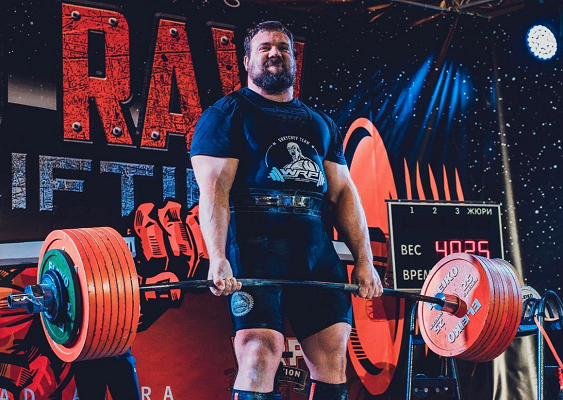
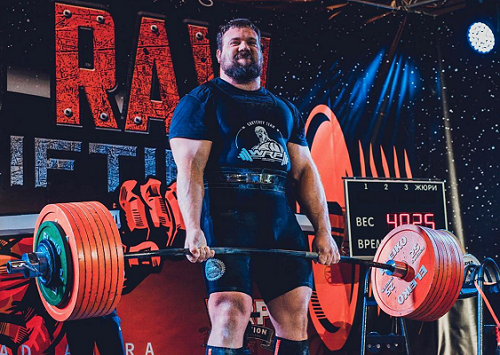
Modification HTML+CSS avec flexbox

diff --git a/index.html b/index.html
@@ -24,23 +24,24 @@
     <div class="centre_site">
         <div class="presentation">
             <h2>Qui suis-je?</h2>
-            <div class="presentation-texte">
-                <p>Bonjour, <br>Je m'appelle Antoine, j'ai 22 ans et je suis powerlifter depuis 8 ans. Bien que "spécialisé" dans le développé couché.</p>
-                <p>C'est une discipline encore trop peu connu, c'est pourquoi j'ai décidé de créer un site Web dédié à ce sport. Vous y trouverez des programmes, des calculateurs etc etc.. </p>
+            <div class="container-presentation">
+                <div class="presentation-texte">
+                    <p>Bonjour, <br>Je m'appelle Antoine, j'ai 22 ans et je suis powerlifter depuis 8 ans. Bien que "spécialisé" dans le développé couché.</p>
+                    <p>C'est une discipline encore trop peu connu, c'est pourquoi j'ai décidé de créer un site Web dédié à ce sport. Vous y trouverez des programmes, des calculateurs etc etc.. </p>
                 
-                <p>Mon palmarès :
-                <ul>
-                    <li>Champion du monde de développé couché Junior -120kg.</li>
-                    <li>Champion d'Europe de développé couché junior -120kg.</li>
-                    <li>Champion de France de développé couché Junior -120kg. </li>
-                    <li>Champion de France de développé couché Junior -105kg. </li>
-                    <li>Champion de France de développé couché subjunior -83kg.</li>
-                </ul>
-            </div>
+                    <p>Mon palmarès :
+                    <ul>
+                        <li>Champion du monde de développé couché Junior -120kg.</li>
+                        <li>Champion d'Europe de développé couché junior -120kg.</li>
+                        <li>Champion de France de développé couché Junior -120kg. </li>
+                        <li>Champion de France de développé couché Junior -105kg. </li>
+                        <li>Champion de France de développé couché subjunior -83kg.</li>
+                    </ul>
+                </div>
             <div class="presentation-photo">
                 <img src="img/photo_avant_après.jpg" alt="image avant après la musculation">    
             </div>
-            <div class="clear">&nbsp;</div>
+            </div>
         </div>
         <!--Entrainement-->
         <div class="entrainement">
@@ -54,43 +55,52 @@
             <h2>Qu'est ce que le powerlifting?</h2>
             <p id="breve">Texte qui présente de facon breve le powerlifting</p>
             <!--Bench-->
-            <div class="section">
-                <div class="left">
-                    <h3>Développé couché (ou "Bench press" en anglais)</h3>
-                    <img src="img/developpe_couche.jpg" alt="image developpé couché">
-                </div>
-                <div class="right">
-                    <p>Allongé sur un banc horizontal, les fessiers en contact avec le banc, l’athlète prend la barre avec ses mains et la dé-rack, 
-                    et au signal « Start ! » de l’arbitre central, il descend la barre en la contrôlant jusqu’à la partie basse des pectoraux ou haut des abdominaux, 
-                    puis fait une pause. Lorsque la barre est stabilisée, l’arbitre donne l’ordre « Press ! » de remonter la barre, puis de la stabiliser en bloquant les coudes.
-                    A l’ordre « Rack ! » de l’arbitre, l’athlète peut reposer la barre.</p>
+            <div class="mouvement">
+                <h3>Développé couché (ou "Bench press" en anglais)</h3>
+                <div class="container-mouvement">
+                    <div class="image-mouvement">
+                        <img src="img/developpe_couche.jpg" alt="image developpé couché">
+                    </div>
+                    <div class="marge-mouvement"></div>
+                    <div class="texte-mouvement">
+                        <p>Allongé sur un banc horizontal, les fessiers en contact avec le banc, l’athlète prend la barre avec ses mains et la dé-rack, 
+                        et au signal « Start ! » de l’arbitre central, il descend la barre en la contrôlant jusqu’à la partie basse des pectoraux ou haut des abdominaux, 
+                        puis fait une pause. Lorsque la barre est stabilisée, l’arbitre donne l’ordre « Press ! » de remonter la barre, puis de la stabiliser en bloquant les coudes.
+                        A l’ordre « Rack ! » de l’arbitre, l’athlète peut reposer la barre.</p>
 
-                    <p>*Définition tirée du site de la <a href="http://ffforce.fr">Fédération Française de force</a></p>
+                        <p>*Définition tirée du site de la <a href="http://ffforce.fr">Fédération Française de force</a></p>
+                    </div>
                 </div>
             </div>
             <!--Squat-->
-            <div class="section">
-                <div class="left">
-                    <h3>Squat</h3>
-                    <img src="img/squat.png" alt="image de squat">
-                </div>
-                <div class="right">
-                    <p>L’athlète pose et maintient la barre sur les épaules, puis il dé-rack la barre. A l’ordre « Squat ! » de l’arbitre central, 
-                    il fait une flexion des genoux pour descendre, jusqu’à passer sous la parallèle au sol de profil (le pli de la hanche doit être sous le genou si l’on trace une droite), 
-                    puis il remonte et se stabilise. Enfin, il attendra l’ordre « Rack ! » donné par l’arbitre pour reposer la barre.</p>
-                    <p>*Définition tirée du site de la <a href="http://ffforce.fr">Fédération Française de force</a></p>
+            <div class="mouvement">
+                <h3>Squat</h3>
+                <div class="container-mouvement">
+                    <div class="image-mouvement">
+                        <img src="img/squat.png" alt="image de squat">
+                    </div>
+                    <div class="marge-mouvement"></div>
+                    <div class="texte-mouvement">
+                        <p>L’athlète pose et maintient la barre sur les épaules, puis il dé-rack la barre. A l’ordre « Squat ! » de l’arbitre central, 
+                        il fait une flexion des genoux pour descendre, jusqu’à passer sous la parallèle au sol de profil (le pli de la hanche doit être sous le genou si l’on trace une droite), 
+                        puis il remonte et se stabilise. Enfin, il attendra l’ordre « Rack ! » donné par l’arbitre pour reposer la barre.</p>
+                        <p>*Définition tirée du site de la <a href="http://ffforce.fr">Fédération Française de force</a></p>
+                    </div>
                 </div>
             </div>
             <!--Deadlift-->
-            <div class="section">
-                <div class="left">
-                    <h3>Le Soulevé de Terre (ou « Deadlift » en anglais)</h3>
-                    <img src="img/deadlift.png" alt="image de Soulevé de Terre">
-                </div>
-                <div class="right">
-                    <p>L’athlète doit soulever une barre qui est posée au sol, sans l’appuyer sur les cuisses, ni la faire redescendre durant son trajet. 
-                    Puis, l’athlète doit se stabiliser, épaules en arrière, genoux verrouillés. Enfin il attendra l’ordre « Down ! » de la part de l’arbitre pour reposer la barre au sol. </p>
-                    <p>*Définition tirée du site de la <a href="http://ffforce.fr">Fédération Française de force</a></p>
+            <div class="mouvement">
+                <h3>Le Soulevé de Terre (ou « Deadlift » en anglais)</h3>
+                <div class="container-mouvement">
+                    <div class="image-mouvement">
+                        <img src="img/deadlift.png" alt="image de Soulevé de Terre">
+                    </div>
+                    <div class="marge-mouvement"></div>
+                    <div class="texte-mouvement">
+                        <p>L’athlète doit soulever une barre qui est posée au sol, sans l’appuyer sur les cuisses, ni la faire redescendre durant son trajet. 
+                        Puis, l’athlète doit se stabiliser, épaules en arrière, genoux verrouillés. Enfin il attendra l’ordre « Down ! » de la part de l’arbitre pour reposer la barre au sol. </p>
+                        <p>*Définition tirée du site de la <a href="http://ffforce.fr">Fédération Française de force</a></p>
+                    </div>
                 </div>
             </div>
         </div>

diff --git a/style.css b/style.css
@@ -15,35 +15,31 @@ body{
     margin: 30px 150px;
 }
 
-.menu,.presentation-texte,.presentation-entrainement, .section{
+.menu,.presentation-texte,.presentation-entrainement, .mouvement{
     background-color: rgba(76, 174, 178, 0.4);
 }
 
 .menu{
     border-bottom: 4px solid #2F4F4F;
+    display: flex;
+    justify-content: space-between;
 }
 
 h1{
-    margin: 0px;
-    margin-top: 8px;
-    margin-left: 8px;
-    float: left;
-    width: 25%;
+    margin-top: 10px;
+    margin-left: 15px;
+    margin-bottom: 0px;
+
 }
 
-.menu ul,li{
-    display: inline-block;
-    list-style-type: none;
-}
 .menu ul{
-    width: 70%;
     margin: 0;
-    text-align: right;
+    display: flex;
 }
 .menu li{
     padding: 20px 30px;
     text-transform: uppercase;
-    font-weight: bold
+    list-style-type: none;
 }
 
 .menu li:hover{
@@ -57,7 +53,6 @@ h1{
     height: 800px;
 }
 
-
 h2{
     margin: 10px 0;
     padding: 20px 0;
@@ -67,25 +62,25 @@ h2{
     border-radius: 5px;
 }
 
-.presentation-texte{
-    display: inline-block;
-    margin-left: 2%;
-    margin-top: 30px;
-    padding-left: 10px;
-    padding-right: 10px;
-    max-width: 45%;
+.container-presentation{
+    display: flex;
+    justify-content: space-between;
+    align-items: center;
 }
 
-.presentation-photo{
-    float: right;
-}
 
 .presentation-photo img{
-    width:500px;
+    width: 500px;
+    height:350px;
 }
 
-.clear{
-    clear: both;
+.presentation-texte{
+    padding-left: 15px;
+    margin-right: 2%;
+}
+
+.presentation-texte li{
+    list-style-type: square;
 }
 
 .centre_site{
@@ -94,9 +89,36 @@ h2{
 
 .centre_site img{
     box-shadow:0px 0px 10px black;
+
 }
 
 #breve{
     text-align: center;
     font-style: italic;
+}
+
+h3{
+    padding:10px 10px;
+    text-align: center;
+}
+
+.mouvement{
+    padding-bottom: 50px;
+}
+
+.container-mouvement{
+    display: flex;
+    align-items: center;
+}
+
+.image-mouvement{
+    width: 500px;
+    margin-left: 6%;
+}
+.marge-mouvement{
+    width: 60px;
+}
+.texte-mouvement{
+    width: 400px;
+    text-align: justify;
 }
